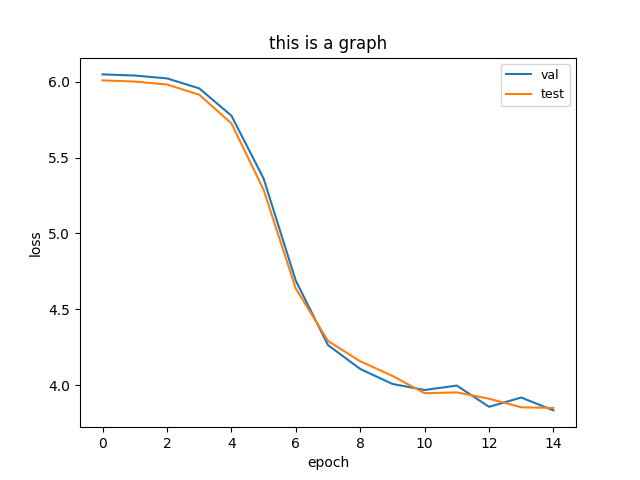
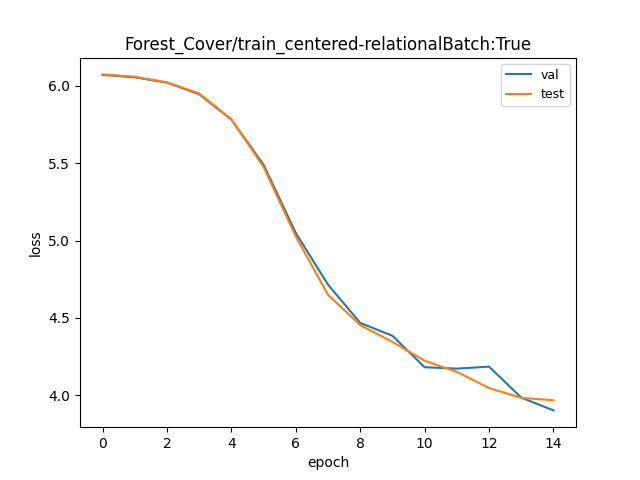
change title and gitignore

diff --git a/examples/aTOz.py b/examples/aTOz.py
@@ -16,9 +16,9 @@ if len(sys.argv) > 5:
     target_name = sys.argv[5]
 
 X, y, old_x, X_all, y_std = load_data("examples/data/", dataset  +".csv", task_type=task_type, target_name=target_name)
-model, optimizer, loss_fn = create_model(X_all, task_type=task_type)
 
 for relational_batch in [True, False]:
+    model, optimizer, loss_fn = create_model(X_all, task_type=task_type)
     save_path = create_path("examples/results/" + dataset, epochs, batch_size, relational_batch)
     losses = learn_that(
                 model, 
@@ -33,7 +33,8 @@ for relational_batch in [True, False]:
                 old_x, 
                 print_mode=False, 
                 _task_type=task_type)
-    plot_losses(losses, path=save_path)
+    title = dataset + "-relationalBatch:" + str(relational_batch)
+    plot_losses(losses, title=title, path=save_path)
     
     df = pd.DataFrame(losses)
     
